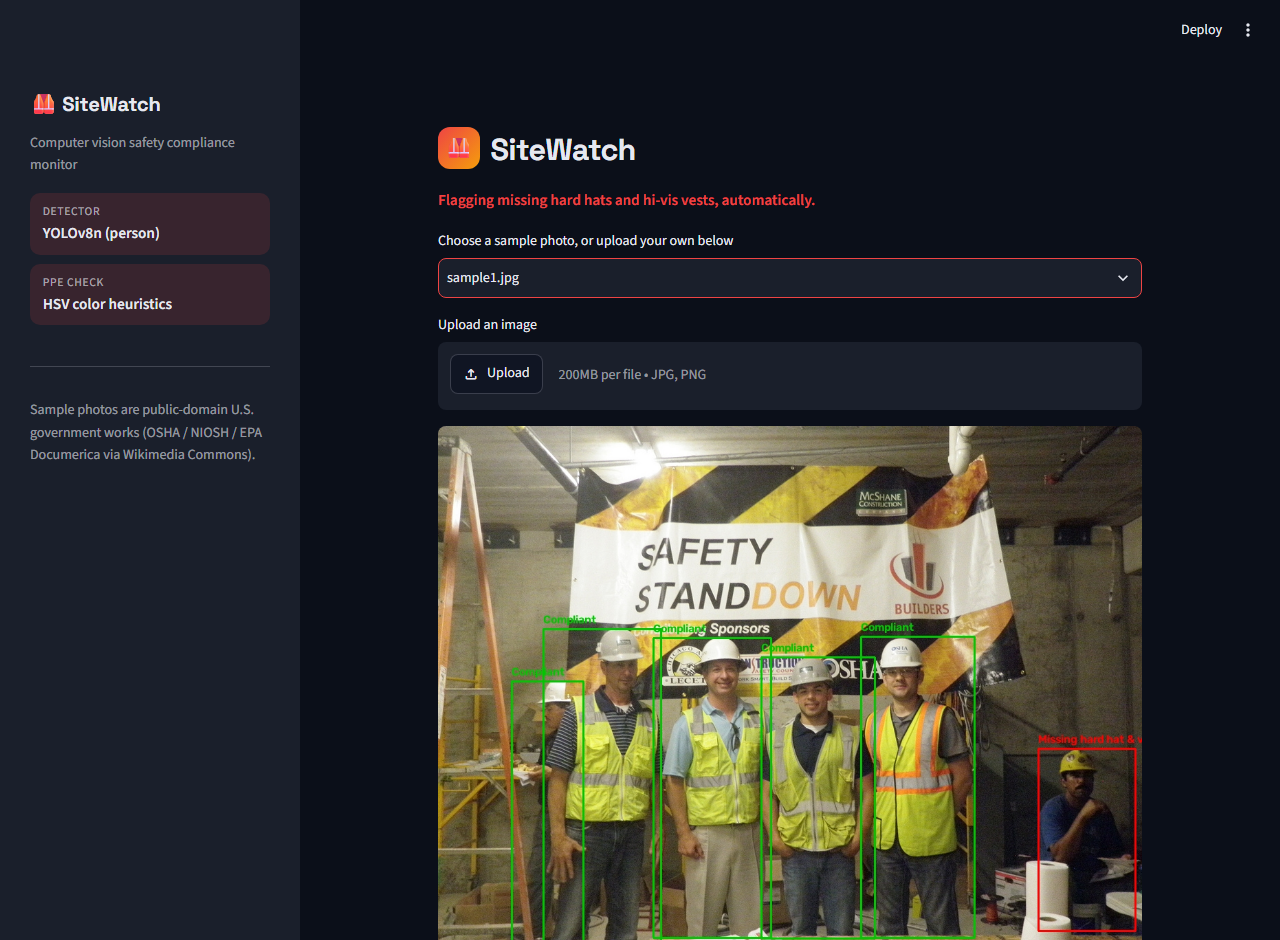
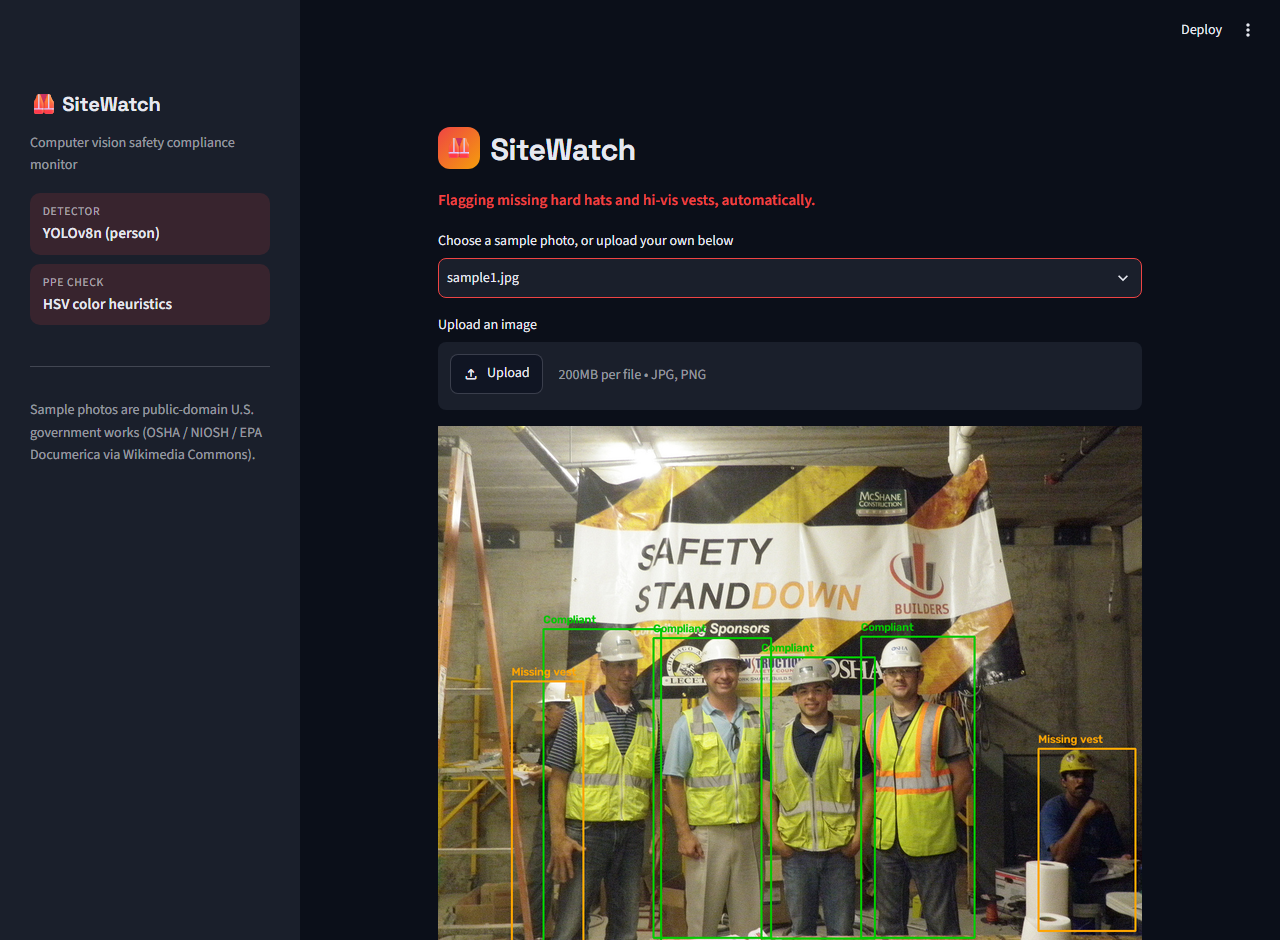
Fix two PPE detection bugs: dim-lighting hard hat misses and neighbor color bleed between overlapping people

diff --git a/ppe_monitor.py b/ppe_monitor.py
@@ -19,7 +19,7 @@ PERSON_CLASS_ID = 0  # COCO class id for "person"
 
 # HSV ranges (OpenCV: H 0-179, S/V 0-255)
 HARDHAT_HSV_RANGES = [
-    ((15, 80, 120), (35, 255, 255)),   # yellow/orange hard hats
+    ((15, 60, 40), (35, 255, 255)),    # yellow/orange hard hats (lowered S/V minimums so hats read correctly under dim indoor lighting, not just direct sun)
     ((0, 80, 120), (10, 255, 255)),    # red hard hats
     ((100, 80, 80), (130, 255, 255)),  # blue hard hats
     ((0, 0, 180), (179, 40, 255)),     # white hard hats
@@ -33,7 +33,7 @@ HEAD_FRACTION = (0.0, 0.22)
 TORSO_FRACTION = (0.25, 0.65)
 
 HARDHAT_THRESHOLD = 0.12
-VEST_THRESHOLD = 0.15
+VEST_THRESHOLD = 0.25
 
 _model = None
 
@@ -45,24 +45,51 @@ def get_model() -> YOLO:
     return _model
 
 
-def _color_fraction(region: np.ndarray, ranges) -> float:
+def _color_fraction(region: np.ndarray, ranges, exclude_mask: np.ndarray = None) -> float:
     if region.size == 0:
         return 0.0
     hsv = cv2.cvtColor(region, cv2.COLOR_BGR2HSV)
     mask = np.zeros(hsv.shape[:2], dtype=np.uint8)
     for lower, upper in ranges:
         mask |= cv2.inRange(hsv, np.array(lower), np.array(upper))
+    if exclude_mask is not None:
+        mask[exclude_mask] = 0
+        valid = np.count_nonzero(~exclude_mask)
+        return float(np.count_nonzero(mask)) / valid if valid else 0.0
     return float(np.count_nonzero(mask)) / mask.size
 
 
-def analyze_person(image: np.ndarray, box) -> dict:
+def _overlap_mask(shape, x1, y1, other_boxes) -> np.ndarray:
+    """Pixels in a crop that also fall inside another detected person's box.
+
+    Two people standing close together often have overlapping boxes, so a
+    naive per-box color check can pick up a neighbor's hard hat or vest.
+    Excluding those shared pixels keeps each person's score to their own
+    body only.
+    """
+    mask = np.zeros(shape[:2], dtype=bool)
+    ry2, rx2 = shape[0] + y1, shape[1] + x1
+    for ox1, oy1, ox2, oy2 in other_boxes:
+        ix1, iy1 = max(ox1, x1) - x1, max(oy1, y1) - y1
+        ix2, iy2 = min(ox2, rx2) - x1, min(oy2, ry2) - y1
+        if ix1 < ix2 and iy1 < iy2:
+            mask[max(0, iy1):iy2, max(0, ix1):ix2] = True
+    return mask
+
+
+def analyze_person(image: np.ndarray, box, other_boxes=()) -> dict:
     x1, y1, x2, y2 = [int(v) for v in box]
     height = y2 - y1
-    head = image[y1 + int(height * HEAD_FRACTION[0]): y1 + int(height * HEAD_FRACTION[1]), x1:x2]
-    torso = image[y1 + int(height * TORSO_FRACTION[0]): y1 + int(height * TORSO_FRACTION[1]), x1:x2]
+    head_y1, head_y2 = y1 + int(height * HEAD_FRACTION[0]), y1 + int(height * HEAD_FRACTION[1])
+    torso_y1, torso_y2 = y1 + int(height * TORSO_FRACTION[0]), y1 + int(height * TORSO_FRACTION[1])
+    head = image[head_y1:head_y2, x1:x2]
+    torso = image[torso_y1:torso_y2, x1:x2]
 
-    hardhat_score = _color_fraction(head, HARDHAT_HSV_RANGES)
-    vest_score = _color_fraction(torso, VEST_HSV_RANGES)
+    head_exclude = _overlap_mask(head.shape, x1, head_y1, other_boxes)
+    torso_exclude = _overlap_mask(torso.shape, x1, torso_y1, other_boxes)
+
+    hardhat_score = _color_fraction(head, HARDHAT_HSV_RANGES, head_exclude)
+    vest_score = _color_fraction(torso, VEST_HSV_RANGES, torso_exclude)
 
     has_hardhat = hardhat_score >= HARDHAT_THRESHOLD
     has_vest = vest_score >= VEST_THRESHOLD
@@ -103,9 +130,11 @@ def run(image: np.ndarray, conf: float = 0.35):
     results = model(image, classes=[PERSON_CLASS_ID], conf=conf, verbose=False)[0]
 
     annotated = image.copy()
+    all_boxes = [tuple(int(v) for v in b) for b in results.boxes.xyxy.cpu().numpy()]
     people = []
-    for box in results.boxes.xyxy.cpu().numpy():
-        info = analyze_person(image, box)
+    for i, box in enumerate(all_boxes):
+        other_boxes = all_boxes[:i] + all_boxes[i + 1:]
+        info = analyze_person(image, box, other_boxes)
         people.append(info)
 
         x1, y1, x2, y2 = info["box"]

diff --git a/README.md b/README.md
@@ -19,12 +19,14 @@ SiteWatch scans a photo, finds every person in it, and checks whether each one i
 1. **Person detection** ([ppe_monitor.py](ppe_monitor.py)): a pretrained **YOLOv8n** model (trained on COCO, used off-the-shelf with no fine-tuning) finds every person in the frame.
 2. **PPE heuristics**: for each detected person, the head and torso regions of their bounding box are checked in HSV color space for hard-hat colors (yellow, orange, red, blue, white) and high-visibility vest colors (hi-vis yellow-green, hi-vis orange).
 
-This is a deliberate, disclosed tradeoff: **there's no labeled PPE training dataset here, and no custom-trained classifier.** Detecting *people* reliably needs a real object detector (hence YOLOv8), but flagging *hard hats and vests* is done with color heuristics rather than a trained model. It's a fast, dependency-light proof of concept, not a production-grade learned PPE detector. A real deployment would fine-tune a detector on labeled PPE images (bounding boxes for helmets/vests specifically) to handle occlusion, unusual poses, and non-standard PPE colors far more robustly. The tradeoffs are visible in the demo: it does noticeably better on standing, front-facing people than on seated or turned-away ones.
+This is a deliberate, disclosed tradeoff: **there's no labeled PPE training dataset here, and no custom-trained classifier.** Detecting *people* reliably needs a real object detector (hence YOLOv8), but flagging *hard hats and vests* is done with color heuristics rather than a trained model. It's a fast, dependency-light proof of concept, not a production-grade learned PPE detector. A real deployment would fine-tune a detector on labeled PPE images (bounding boxes for helmets/vests specifically) to handle occlusion, unusual poses, and non-standard PPE colors far more robustly.
+
+Two heuristic issues surfaced while testing on the sample photos, both fixed: the hard-hat color range originally required a brightness level that dim indoor lighting couldn't meet, so a clearly-worn yellow hard hat went undetected, and when two people stood close together, one person's bounding box could pick up a neighbor's vest color as if it were their own. The fix excludes any pixels shared with another detected person's box before scoring, and widened the brightness range the color check accepts.
 
 ## Limitations & future improvements
 
 - **No safety glasses / eye protection detection.** Hard hats and hi-vis vests work well with color heuristics because they're large, solid-colored regions. Safety glasses are small, often clear or lightly tinted, and sit on a face full of confounding colors (skin, hair, shadows), so a color threshold would produce unreliable results rather than a useful signal. Adding this properly would need a trained object detector on labeled eyewear data, not a heuristic.
-- **Pose-sensitive.** The head/torso region split assumes a roughly upright, front-or-side-facing person. Seated, crouched, or heavily occluded people (see the seated worker in the demo, flagged incorrectly) throw off the region boundaries.
+- **Still pose-sensitive.** The head/torso region split assumes a roughly upright, front-or-side-facing person. Heavily occluded or extremely close-together people can still throw off the region boundaries, even with the overlap fix above.
 - **Color-based, not shape-based.** Anything coincidentally matching hi-vis or hard-hat hues (e.g. a yellow jacket) can register as compliant even if it isn't actually PPE. A trained classifier would be far more robust here.
 
 ## Sample images
